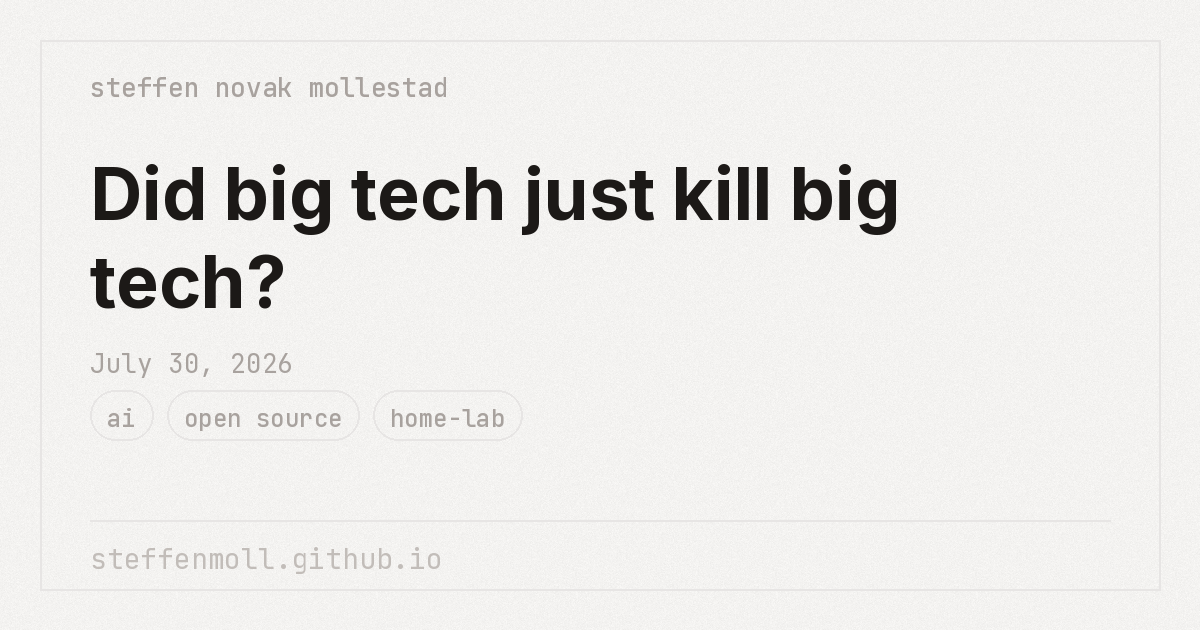
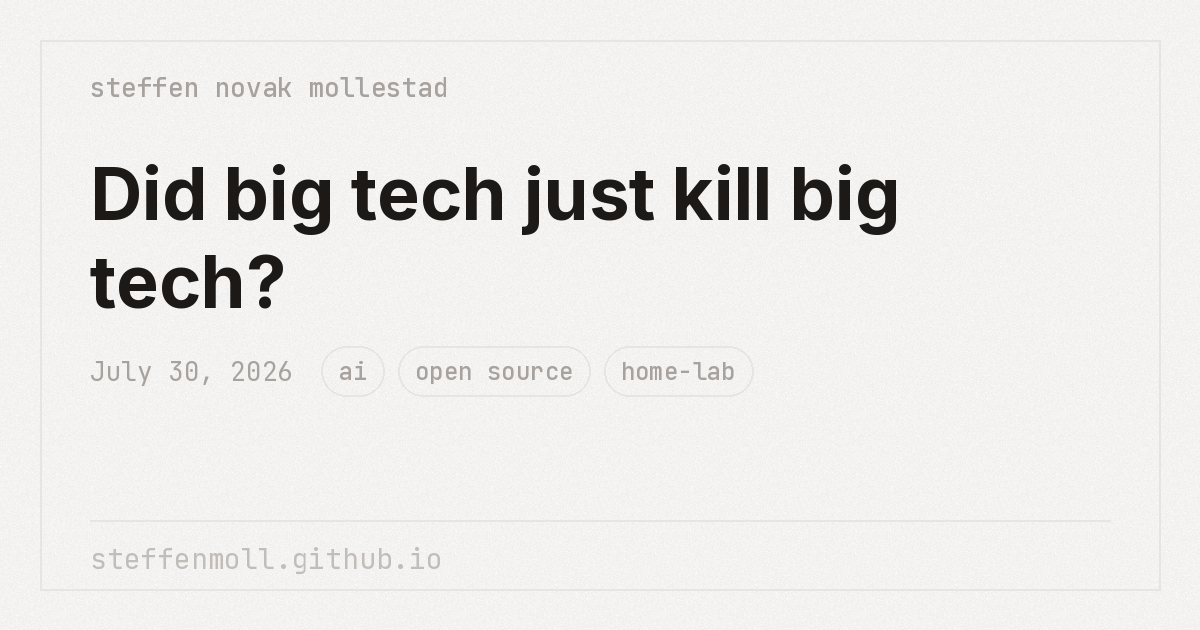
Fix internal-link blue tint, page-shift on navigation, and OG image meta alignment
- link-previews.html injected its own <style> block styling every
  a.internal-link with a permanent blue/lavender background and
  border (#efefff / #8b88e6), independent of our theme - this is what
  was actually causing "blue background links", not the focus ring.
  Nav links live outside <content> so they were never touched by it,
  which is why they looked fine. Recolored to the warm yellow family
  (#fdf3d9 / #e0b64d) to match the rest of the site.
- Added `html { overflow-y: scroll; }` so the scrollbar track is
  always reserved. Short pages (home) vs longer pages (notes) were
  toggling the scrollbar on/off, shifting the centered body left/right
  by half the scrollbar's width on navigation.
- scripts/generate_og_images.py had the same date/tag misalignment
  bug the site CSS had: date text was drawn flush at the row's top
  while tag pills were a taller bordered/padded box, so date sat
  above the pills' visual center. Anchored both to the row's vertical
  center (PIL's anchor="lm"/"mm") and put tags on the same row as the
  date instead of below it, matching the site layout. Regenerated all
  five note images.

diff --git a/_sass/_style.scss b/_sass/_style.scss
@@ -14,6 +14,10 @@ $font-family-heading: Inter, -apple-system, BlinkMacSystemFont, Segoe UI,
 $font-family-mono: "JetBrains Mono", ui-monospace, SFMono-Regular, Menlo,
   Consolas, monospace;
 
+html {
+  overflow-y: scroll;
+}
+
 body {
   box-sizing: content-box;
   font-family: $font-family;

diff --git a/_includes/link-previews.html b/_includes/link-previews.html
@@ -1,8 +1,8 @@
 <!-- That file is not particularly elegant. This will need a refactor at some point. -->
 <style>
   content a.internal-link {
-    border-color: #8b88e6;
-    background-color: #efefff;
+    border-color: #e0b64d;
+    background-color: #fdf3d9;
   }
 
   #tooltip-wrapper {

diff --git a/scripts/generate_og_images.py b/scripts/generate_og_images.py
@@ -148,23 +148,31 @@ def render_note(path, out_path):
         y += line_height
     y += 20
 
+    row_h = 50
+    date_font = mono(26)
+    tag_font = mono(24, "Medium")
+
     if data["date"]:
         date_str = datetime.date.fromisoformat(data["date"]).strftime("%B %-d, %Y")
-        draw.text((pad, y), date_str, font=mono(26), fill=MUTED)
-        y += 44
+        draw.text((pad, y + row_h / 2), date_str, font=date_font, fill=MUTED, anchor="lm")
+        date_w = draw.textbbox((0, 0), date_str, font=date_font)[2]
+        x = pad + date_w + 28
+    else:
+        x = pad
 
     if data["tags"]:
-        tag_font = mono(24, "Medium")
-        x, ty = pad, y
+        ty = y
         for tag in data["tags"]:
             tw = draw.textbbox((0, 0), tag, font=tag_font)[2]
-            pill_w, pill_h = tw + 34, 50
+            pill_w = tw + 34
             if x + pill_w > W - pad:
-                x, ty = pad, ty + pill_h + 14
+                x, ty = pad, ty + row_h + 14
             draw.rounded_rectangle(
-                [x, ty, x + pill_w, ty + pill_h], radius=pill_h // 2, outline=BORDER, width=2
+                [x, ty, x + pill_w, ty + row_h], radius=row_h // 2, outline=BORDER, width=2
             )
-            draw.text((x + 17, ty + 12), tag, font=tag_font, fill=MUTED)
+            draw.text(
+                (x + pill_w / 2, ty + row_h / 2), tag, font=tag_font, fill=MUTED, anchor="mm"
+            )
             x += pill_w + 14
 
     draw_footer(draw, H - 110)
